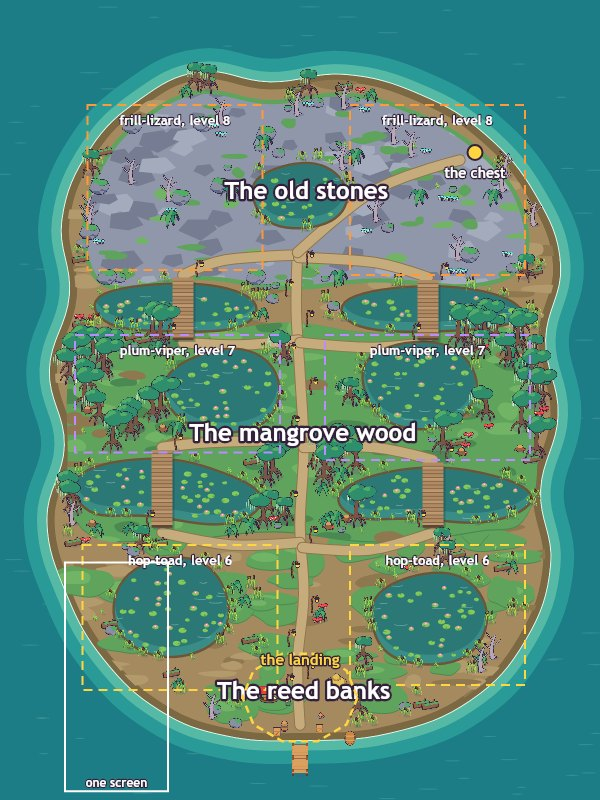
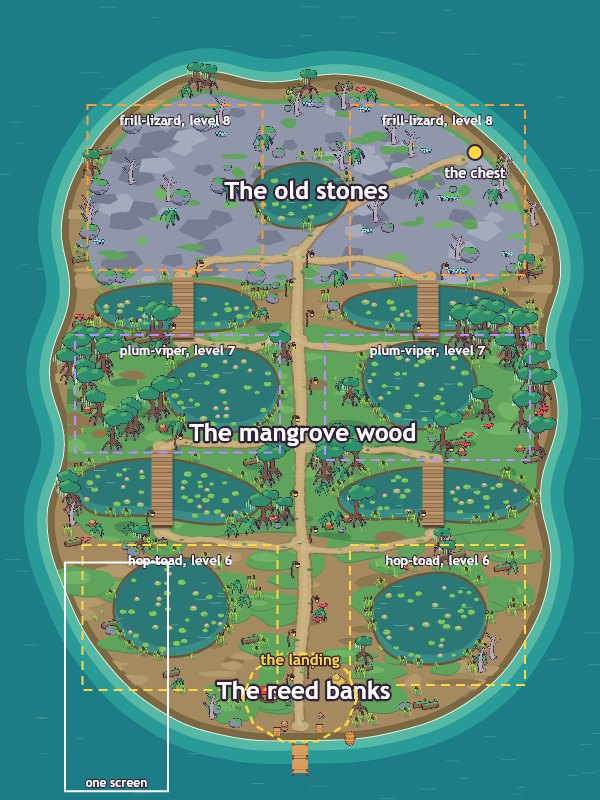
Art Director: the swamp's ways as trodden earth, not drawn roads (Leonard, AD)
Robin, 2026-11-20, of the swamp: "Looks good except the roads. They clip
over each other and doesnt look natural. I think you can get a lot of
inapiration from my survival game project".

After the Survival game's village ways: dabs of bare ground laid close,
wandering a little, wider on the main way, paler down the middle, a
ragged rim with no line, moss creeping in, a worn patch where ways meet.
All ways are painted together, so none lies on another.

out/mire-cay: only ground.png and the look pictures changed.

diff --git a/Art Director/tools/mire.js b/Art Director/tools/mire.js
@@ -62,8 +62,24 @@ function paint() {
     for (let i = 0; i < b[2] * b[3] / 15000; i++) { const x = b[0] + r() * b[2], y = b[1] + r() * b[3], s = 34 + r() * 50, pts = []; for (let k = 0; k < 5; k++) { const t = k / 5 * 6.283 + r() * 0.5; pts.push([x + Math.cos(t) * s * (0.75 + r() * 0.4), y + Math.sin(t) * s * 0.58 * (0.75 + r() * 0.4)]); } fill(g, poly(pts), i % 2 ? C.stoneHi : C.stoneLo); }
     for (let i = 0; i < b[2] * b[3] / 26000; i++) fill(g, blob(b[0] + r() * b[2], b[1] + r() * b[3], 18 + r() * 36, 8 + r() * 14, 8, 0.4, r), i % 3 ? C.moss : C.mossHi);
     ring(g, sh, C.moss, 34); g.restore(); }
-  // the mud tracks
-  for (const p of L.paths) { const q = curve(p.concat(p.slice(1, -1).reverse()), 0.5, 6).slice(0, (p.length - 1) * 6 + 1); g.beginPath(); q.forEach((v, k) => k ? g.lineTo(v[0], v[1]) : g.moveTo(v[0], v[1])); g.lineJoin = 'round'; g.lineCap = 'round'; g.strokeStyle = C.pathLo; g.lineWidth = 46; g.stroke(); g.strokeStyle = C.path; g.lineWidth = 38; g.stroke(); }
+  // the ways: trodden earth, never a drawn road (Robin, 2026-11-20: "Looks good except the roads. They clip over each other and
+  // doesnt look natural. I think you can get a lot of inapiration from my survival game project"). From the Survival game's
+  // village ways (its village.js): a way is dabs of bare earth that wander a little, wider where more feet go, paler down the
+  // middle, with a ragged rim and no line round it; ways join and share one ground, and where several meet the ground is a worn
+  // apron. So every way is laid in the same three passes, all the rims first, then all the earth, then all the pale middles: no
+  // way lies on another.
+  { const wr = P.rng(L.seed + 7), ways = L.paths.map((p, n) => { const q = curve(p.concat(p.slice(1, -1).reverse()), 0.5, 40).slice(0, (p.length - 1) * 40 + 1), ph = wr() * 6.283, out = [];
+      for (let k = 0; k < q.length; k++) { const t = k / (q.length - 1), a = q[Math.max(0, k - 1)], b = q[Math.min(q.length - 1, k + 1)], dx = b[0] - a[0], dy = b[1] - a[1], d = Math.hypot(dx, dy) || 1, end = Math.min(1, Math.min(t, 1 - t) * 6), off = (Math.sin(t * 9 + ph) * 9 + Math.sin(t * 23 + ph * 2) * 4) * end;      // it wanders, but not where it meets a bridge or another way
+        out.push([q[k][0] - dy / d * off, q[k][1] + dx / d * off, (n === 0 ? 21 : 16) * (1 + 0.16 * Math.sin(t * 13 + ph * 3))]); }
+      return out; });
+    const aprons = []; for (const w of ways) for (const e of [w[0], w[w.length - 1]]) aprons.push([e[0], e[1], 30 + wr() * 8]);
+    const dab = (x, y, rx, ry, col, al = 1) => { g.globalAlpha = al; g.fillStyle = col; g.beginPath(); g.ellipse(x, y, rx, ry, 0, 0, 7); g.fill(); g.globalAlpha = 1; };
+    for (const w of ways) for (const [x, y, r0] of w) { dab(x + (wr() - 0.5) * 5, y + 3 + (wr() - 0.5) * 4, r0 + 5 + wr() * 4, (r0 + 5) * 0.8, C.pathLo, 0.5); if (wr() < 0.07) dab(x + (wr() - 0.5) * (r0 * 2.6), y + (wr() - 0.5) * (r0 * 2), 5 + wr() * 6, 3 + wr() * 3, C.pathLo, 0.45); }      // the rim: darker, ragged, with stray patches
+    for (const [x, y, r0] of aprons) fill(g, blob(x, y + 3, r0 + 6, (r0 + 6) * 0.72, 10, 0.3, wr), 'rgba(143,119,79,0.5)');
+    for (const w of ways) for (const [x, y, r0] of w) dab(x + (wr() - 0.5) * 4, y + (wr() - 0.5) * 3, r0, r0 * 0.8, C.path);      // the earth
+    for (const [x, y, r0] of aprons) fill(g, blob(x, y, r0, r0 * 0.72, 10, 0.3, wr), C.path);
+    for (const w of ways) for (let k = 0; k < w.length; k += 2) { const [x, y, r0] = w[k]; dab(x + (wr() - 0.5) * 5, y - 1 + (wr() - 0.5) * 3, r0 * 0.5, r0 * 0.32, '#d6c090', 0.35); }      // paler down the middle, where the feet fall
+    for (const w of ways) for (const [x, y, r0] of w) { if (wr() < 0.04) fill(g, blob(x + (wr() < 0.5 ? -1 : 1) * r0 * (0.7 + wr() * 0.4), y + (wr() - 0.5) * 8, 6 + wr() * 7, 3 + wr() * 3, 7, 0.4, wr), wr() < 0.5 ? C.moss : C.mossLo); if (wr() < 0.03) dab(x + (wr() - 0.5) * r0 * 1.4, y + (wr() - 0.5) * r0, 1.8, 1.3, C.wet, 0.8); } }      // moss creeping in from the side, a pebble
   // the pools: a dark rim of wet mud, green water, deeper toward the far bank; lily pads lying flat, some with a lotus
   pools.forEach((ip, n) => { const il = poly(ip), b = box(ip), rr = P.rng(300 + n); ring(g, il, C.bogRim, 20); fill(g, il, C.bog); g.save(); il(g); g.clip(); fill(g, poly(ip.map(([x, y]) => [x, y - 34])), C.bogIn);
     for (let i = 0; i < 9; i++) { g.strokeStyle = 'rgba(190,236,220,0.5)'; g.lineWidth = 2.4; g.beginPath(); g.ellipse(b[0] + rr() * b[2], b[1] + rr() * b[3], 12 + rr() * 16, 3 + rr() * 2, 0, 0.3, 2.8); g.stroke(); }

diff --git a/Art Director/docs/log.md b/Art Director/docs/log.md
@@ -46,3 +46,4 @@ when they matter), what was made and where (`out\<name>\`, the tool), what is wa
 - 2026-11-20: Victor, GD, on Robin's word for a skills window ("implement a simple UI for skills (take inspiration from zite)..."; read in his transcript): four more skill discs and the Skills button, in out/glass (61 pieces, 1024 by 906, 3.5 MB): Heavy blow orange, Whirlwind violet, Brace steel, Second wind teal, each a colour no other disc has; a burst for the button. Looked at his Skills window in the test copy at two thirds of its size: nothing lies on anything; "On the middle button" fills its button. A long shell heredoc failed twice today: patches of more than a few lines go in a file written with the Write tool. Leonard, AD.
 - 2026-11-20: Victor, GD: the six monsters and Mire Cay are in the game and on the public page (his commit 0024efc), "Everything drew right the first time"; the gull and its folder are out of the game. On his message: Crab Cay's `zones` name the monsters that live there now (sand-crab, wharf-rat, bristle-piglet, palm-monkey, coconut-crab; the boxes unchanged); the piglet's `charge` gallop is redrawn with a longer stride and 42 ms a frame, so it is drawn for 320 units a second where his rule runs it at 330; the chart has Crab Cay with its town, Mire Cay painted in, a way between them, `pin/swamp`, and the old harbour as an unknown island (tools/chart.js, tools/chart-look.js; `chart-places.json` names its places `crab-cay` and `mire-cay`, with `island-1` kept as the old name). Counted Crab Cay again with five monsters, the bigger glass and the big chest: 58.5 MB, 2.5 over his 56; told him. Leonard, AD.
 - 2026-11-20: Victor, GD: the three follow-ups are in the game and live (his 58f7d6f): zones read by name, the piglet's gallop on its rush, the chart with both islands, pins and the dotted way. The toad stands outside 0.08 to 0.38 s of its 0.48 s hop and travels only between, 1.6 times faster: checked against the atlas, frame 1 is 0 to 80 ms, frames 2 to 5 are 80 to 380, frame 6 is 380 to 480, so his numbers fall on the frames. Crab Cay's budget is 60 MB now (his, in art-demands.md); my count is 58.5. Nothing more asked; the swamp's landmark waits for Robin's word on its look. Leonard, AD.
+- 2026-11-20: Robin, in my chat, of the swamp: "Looks good except the roads. They clip over each other and doesnt look natural. I think you can get a lot of inapiration from my survival game project". Read the Survival game's village ways (C:/dev/SG/Game Developer/src/village.js: ways as dabs that wander, wider where more feet go, joining on shared ground, a worn apron where they end; nothing copied). tools/mire.js now lays every way in three passes together (rims, earth, pale middles) as close dabs with a wander, moss creeping in and a worn patch at each end; the first try had the dabs too far apart and read as beads. out/mire-cay delivered a third time: only ground.png changed. Crab Cay's ways are still drawn the old way. Leonard, AD.

diff --git a/Art Director/out/mire-cay/NOTES.md b/Art Director/out/mire-cay/NOTES.md
@@ -19,6 +19,14 @@ each a colour the ground is not.
 boat or a hut, yours), and it is the safe part, as the town is". So the second drop has the camp: the trader's boat
 drawn up on the bank under a patched red awning (the `stall`), the trader beside it, a reed hut on stilts, a fire.
 
+**The third drop, 2026-11-20: the ways.** Robin, in my chat, of the swamp: "Looks good except the roads. They clip over
+each other and doesnt look natural. I think you can get a lot of inapiration from my survival game project". The ways
+were drawn as roads, each with a dark line round it, so one lay on the next where they met. Now they are trodden
+earth, as the Survival game's village ways are: dabs of bare ground that wander a little, wider on the main way,
+paler down the middle, a ragged rim with no line, moss creeping in, and a worn patch where ways meet. All of them are
+laid together, so none lies on another. **Only `ground.png` changed** (and the look pictures); `paths` in
+`place.json` is the same list, and the ways still run through its points.
+
 ## The numbers
 
 | File | What | Size | Decoded | On disk |
@@ -55,7 +63,7 @@ Copy the folder. It is Crab Cay's form (`out\crab-cay\NOTES.md`), with **one new
 
 ## Open
 
-- **The look is not judged.** Robin said "A swamp maybe"; the three screens went to him on 2026-11-20.
+- **The look:** Robin, 2026-11-20: "Looks good except the roads." The roads are redone (above) and shown to him again.
 - **A landmark.** The old stones want broken pillars and one great thing (I would make a mossy stone toad). Not made.
 - The camp has one person. More of them, and a second hut, when tasks come here.
 - The stall, the hut and the fire take the round shadow; the fire does not flicker.

diff --git a/Art Director/docs/direction.md b/Art Director/docs/direction.md
@@ -50,8 +50,14 @@ big, has several grounds with their own levels and monsters, and is walked witho
 - **The second one is a swamp** (`out\mire-cay\`; Robin, 2026-11-20: "That island needs to look different and have its
   own theme. A swamp maybe."). Mud, deep moss and teal water where Crab Cay is sand, bright grass and blue sea; pools
   with lily pads inside the land (`pools`), plank bridges over them, mangroves hung with moss, old mossy stones in
-  the north. Its bright points are small: lotus, toadstools, lanterns. `tools\mire.js` paints it. The look is mine
-  until Robin has judged it.
+  the north. Its bright points are small: lotus, toadstools, lanterns. `tools\mire.js` paints it. Robin, 2026-11-20:
+  "Looks good except the roads."
+- **A way is trodden earth, never a drawn road** (Robin, 2026-11-20: "They clip over each other and doesnt look
+  natural. I think you can get a lot of inapiration from my survival game project"). From that game's village ways:
+  dabs of bare ground laid close, wandering a little, wider where more feet go, paler down the middle, a ragged rim
+  and no line round it, the green creeping in. Ways join and share one ground; where several meet there is a worn
+  patch. All the ways of a place are painted together, rims first, so none lies on another. Crab Cay's ways are
+  still the old drawn kind.
 - **The first one is Crab Cay, the starter island** (`out\crab-cay\`). Robin, 2026-11-20: "Make the starter island a
   pirate town, and the other part of the island beginner friendly with low level mobs." So the town stands at the
   landing as its safe part (`home`), and round it lie the beach with its tide flats, the grove and the cove.
